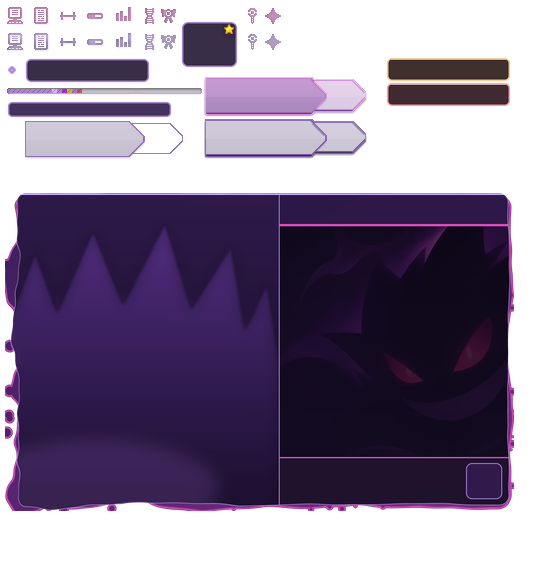
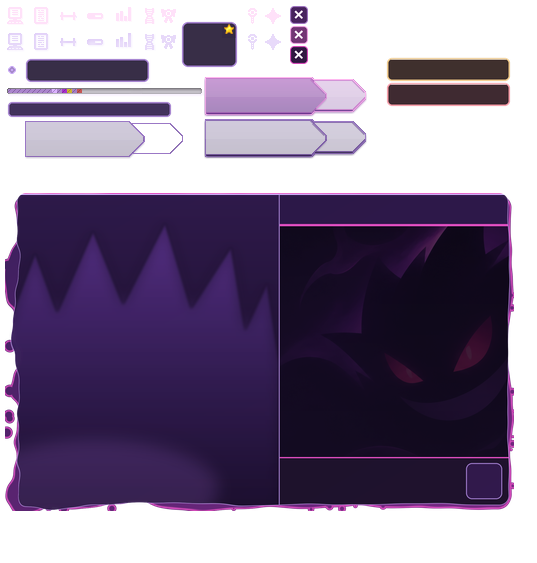
style: Resalta los iconos de la ficha Pokémon

diff --git a/herramientas/monster_info.py b/herramientas/monster_info.py
@@ -83,11 +83,28 @@ def pill(img, box, fill, border, radius=5, glow=None):
     img.alpha_composite(big.resize((w, h), Image.LANCZOS), (x0, y0))
 
 
+def style_header_icons(img):
+    for x in (5, 31, 56, 85, 112, 138, 158, 243, 263):
+        recolor_px(img, (x, 6, 20, 20), lambda r, g, b, a: (255, 225, 249, a))
+        recolor_px(img, (x, 32, 20, 20), lambda r, g, b, a: (216, 193, 246, a))
+
+    for y, fill, outline in (
+        (6, "#49245F", "#A47AC6"),
+        (26, "#743675", "#F4A9E6"),
+        (46, "#321842", "#E04EC0"),
+    ):
+        tile = Image.new("RGBA", (18 * S, 18 * S))
+        draw = ImageDraw.Draw(tile)
+        draw.rounded_rectangle((0, 0, 18 * S - 1, 18 * S - 1), radius=4 * S,
+                               fill=hx(fill), outline=hx(outline), width=S)
+        draw.line((5 * S, 5 * S, 12 * S, 12 * S), fill=hx("#FFF1FC"), width=2 * S)
+        draw.line((12 * S, 5 * S, 5 * S, 12 * S), fill=hx("#FFF1FC"), width=2 * S)
+        img.paste(tile.resize((18, 18), Image.LANCZOS), (290, y))
+
+
 def style_small(img):
     recolor_px(img, (0, 0, img.width, 190), purple_general)
-    for x in (5, 31, 56, 85, 112, 138, 158, 243, 263):
-        recolor_px(img, (x, 6, 20, 20), lum_tint((255, 184, 240)))
-        recolor_px(img, (x, 32, 20, 20), lum_tint((155, 120, 198)))
+    style_header_icons(img)
     recolor_px(img, (5, 58, 18, 24), lum_tint((201, 168, 245)))
     pill(img, (25, 58, 125, 25), hx("#1E1230", 225), hx("#9B78C6"), 5)
     pill(img, (7, 101, 165, 17), hx("#2A1846", 225), hx("#9B78C6"), 4)
